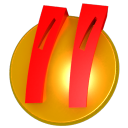
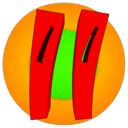
Pause Scene was changed

diff --git a/src/com/example/forestgame/PauseScene.java b/src/com/example/forestgame/PauseScene.java
@@ -12,14 +12,22 @@ import android.util.Log;
 
 public class PauseScene extends Scene {
     
-    private static final float PAUSE_POSITION_LEFT = MainActivity.TEXTURE_WIDTH * 35 / 120;
+    private static final float PAUSE_POSITION_LEFT = MainActivity.TEXTURE_WIDTH * 31 / 120;
     private static final float PAUSE_POSITION_UP = MainActivity.TEXTURE_HEIGHT * 13 / 64;
+    private static final float PAUSE_WIDTH = MainActivity.TEXTURE_WIDTH * 190 / 400;
+    private static final float PAUSE_HEIGHT = MainActivity.TEXTURE_HEIGHT * 11 / 128;
     private static final float RESUME_POSITION_LEFT = MainActivity.TEXTURE_WIDTH * 319 / 1024;
     private static final float RESUME_POSITION_UP = MainActivity.TEXTURE_HEIGHT * 24 / 64;
-    private static final float NEWGAME_POSITION_LEFT = MainActivity.TEXTURE_WIDTH * 260 / 1024;
+    private static final float RESUME_WIDTH = MainActivity.TEXTURE_WIDTH * 150 / 400;;
+    private static final float RESUME_HEIGHT = MainActivity.TEXTURE_HEIGHT * 9 / 128;
+    private static final float NEWGAME_POSITION_LEFT = MainActivity.TEXTURE_WIDTH * 227 / 1024;
     private static final float NEWGAME_POSITION_UP = MainActivity.TEXTURE_HEIGHT * 31 / 64;
-    private static final float MAINMENU_POSITION_LEFT = MainActivity.TEXTURE_WIDTH * 235 / 1024;
-    private static final float MAINMENU_POSITION_UP = MainActivity.TEXTURE_HEIGHT * 38 / 64;    
+    private static final float NEWGAME_WIDTH = MainActivity.TEXTURE_WIDTH * 225 / 400;;
+    private static final float NEWGAME_HEIGHT = MainActivity.TEXTURE_HEIGHT * 9 / 128;
+    private static final float MAINMENU_POSITION_LEFT = MainActivity.TEXTURE_WIDTH * 222 / 1024;
+    private static final float MAINMENU_POSITION_UP = MainActivity.TEXTURE_HEIGHT * 38 / 64; 
+    private static final float MAINMENU_WIDTH = MainActivity.TEXTURE_WIDTH * 225 / 400;;
+    private static final float MAINMENU_HEIGHT = MainActivity.TEXTURE_HEIGHT * 9 / 128;
 
     private Sprite background = new Sprite( 0
             				   , 0
@@ -28,16 +36,18 @@ public class PauseScene extends Scene {
             				   , MainActivity.mainActivity.textureBackground
             				   , MainActivity.mainActivity.getVertexBufferObjectManager());
     
-    private Text pause = new Text( PAUSE_POSITION_LEFT
+    private Sprite pause = new Sprite( PAUSE_POSITION_LEFT
 				     , PAUSE_POSITION_UP
-				     , MainActivity.mainActivity.tPause
-				     , "PAUSE"
+				     , PAUSE_WIDTH
+				     , PAUSE_HEIGHT
+				     , MainActivity.mainActivity.texturePauseL
 				     , MainActivity.mainActivity.getVertexBufferObjectManager());
 
-    private Text resume = new Text( RESUME_POSITION_LEFT
+    private Sprite resume = new Sprite( RESUME_POSITION_LEFT
 				      , RESUME_POSITION_UP
-				      , MainActivity.mainActivity.tResume
-				      , "RESUME"
+				      , RESUME_WIDTH
+				      , RESUME_HEIGHT
+				      , MainActivity.mainActivity.textureResume
 				      , MainActivity.mainActivity.getVertexBufferObjectManager()) {
 	
 	@Override
@@ -47,24 +57,44 @@ public class PauseScene extends Scene {
 	    
 	    if (pSceneTouchEvent.isActionDown()) {
 	    
-		this.registerEntityModifier(MainActivity.TOUCH_SCALE_MODIFIER.deepCopy());
+		applyTouchEffects(resume);
 		
 	    } else if (pSceneTouchEvent.isActionUp()) {
+		
+		if (    (pTouchAreaLocalX > 0) 
+	                 && (pTouchAreaLocalX < RESUME_WIDTH)
+	                 && (pTouchAreaLocalY > 0)
+	                 && (pTouchAreaLocalY < RESUME_HEIGHT)) {
 
-		this.registerEntityModifier(MainActivity.UNTOUCH_SCALE_MODIFIER.deepCopy());
+		    applyUntouchEffects(resume);
 		MainActivity.mainActivity.mClick.play();
 		MainActivity.mainActivity.saveProgress();
-		MainScene.showGameScene();	
+		MainScene.showGameScene();
 		
-	    }
+		} else {
+			applyUntouchEffects(resume);
+		    }
+		    
+		} else if (pSceneTouchEvent.isActionMove()) {
+		    if (    !((pTouchAreaLocalX > 0) 
+		                 && (pTouchAreaLocalX < RESUME_WIDTH)
+		                 && (pTouchAreaLocalY > 0)
+		                 && (pTouchAreaLocalY < RESUME_HEIGHT))) {
+			applyUntouchEffects(resume);
+		    } else {
+			applyTouchEffects(resume);
+		    }
+		    
+		}
 	return true;
 	}
     };
 
-    private Text newgame = new Text(NEWGAME_POSITION_LEFT
+    private Sprite newgame = new Sprite(NEWGAME_POSITION_LEFT
 	    			    , NEWGAME_POSITION_UP
-	    			    , MainActivity.mainActivity.tNewGame
-	    			    , "NEW GAME"
+	    			    , NEWGAME_WIDTH
+	    			    , NEWGAME_HEIGHT
+	    			    , MainActivity.mainActivity.textureNewGame
 	    			    , MainActivity.mainActivity.getVertexBufferObjectManager()) {
 	
 	@Override
@@ -74,11 +104,16 @@ public class PauseScene extends Scene {
 	    
 	    if (pSceneTouchEvent.isActionDown()) {
 		
-		this.registerEntityModifier(MainActivity.TOUCH_SCALE_MODIFIER.deepCopy());
+		applyTouchEffects(newgame);
 		
 	    } else if (pSceneTouchEvent.isActionUp()) {
 		
-		this.registerEntityModifier(MainActivity.UNTOUCH_SCALE_MODIFIER.deepCopy());
+		if (    (pTouchAreaLocalX > 0) 
+	                 && (pTouchAreaLocalX < NEWGAME_WIDTH)
+	                 && (pTouchAreaLocalY > 0)
+	                 && (pTouchAreaLocalY < NEWGAME_HEIGHT)) {
+		
+		    applyUntouchEffects(newgame);
 		if (MainScene.getGameScene().getSlotMatrix().getScore() != 0)
 		MainScene.getGameScene().getScoresTable().saveResult(MainScene.getGameScene().getSlotMatrix().getScore());
 		MainActivity.mainActivity.mClick.play();
@@ -89,15 +124,30 @@ public class PauseScene extends Scene {
 		MainActivity.mainActivity.mClick.play();
 		MainActivity.mainActivity.progressNotSaved();
 		MainScene.showGameScene();
+		
+		} else {
+			applyUntouchEffects(newgame);
+		    }
+		    
+		} else if (pSceneTouchEvent.isActionMove()) {
+		    if (    !((pTouchAreaLocalX > 0) 
+		                 && (pTouchAreaLocalX < NEWGAME_WIDTH)
+		                 && (pTouchAreaLocalY > 0)
+		                 && (pTouchAreaLocalY < NEWGAME_HEIGHT))) {
+			applyUntouchEffects(newgame);
+		    } else {
+			applyTouchEffects(newgame);
+		    }
 	    }
 	    return true;
 	}
     };
     
-    private Text mainMenu = new Text(	MAINMENU_POSITION_LEFT
+    private Sprite mainMenu = new Sprite(	MAINMENU_POSITION_LEFT
 	    			      , MAINMENU_POSITION_UP
-	    			      , MainActivity.mainActivity.tMainMenu
-	    			      , "MAIN MENU"
+	    			      , MAINMENU_WIDTH
+	    			      , MAINMENU_HEIGHT
+	    			      , MainActivity.mainActivity.textureMainMenu
 	    			      , MainActivity.mainActivity.getVertexBufferObjectManager()) {
 
 	@Override
@@ -107,15 +157,33 @@ public class PauseScene extends Scene {
 
 	    if (pSceneTouchEvent.isActionDown()) {
 
-		this.registerEntityModifier(MainActivity.TOUCH_SCALE_MODIFIER.deepCopy());
+		applyTouchEffects(mainMenu);
 
 	    } else if (pSceneTouchEvent.isActionUp()) {
+		
+		if (    (pTouchAreaLocalX > 0) 
+	                 && (pTouchAreaLocalX < MAINMENU_WIDTH)
+	                 && (pTouchAreaLocalY > 0)
+	                 && (pTouchAreaLocalY < MAINMENU_HEIGHT)) {
 
-		this.registerEntityModifier(MainActivity.UNTOUCH_SCALE_MODIFIER.deepCopy());
+		applyUntouchEffects(mainMenu);
 		MainActivity.mainActivity.mClick.play();
 		MainActivity.mainActivity.saveProgress();
 		MainScene.showMainMenuScene();
-	    }
+		} else {
+			applyUntouchEffects(mainMenu);
+		    }
+		    
+		} else if (pSceneTouchEvent.isActionMove()) {
+		    if (    !((pTouchAreaLocalX > 0) 
+		                 && (pTouchAreaLocalX < MAINMENU_WIDTH)
+		                 && (pTouchAreaLocalY > 0)
+		                 && (pTouchAreaLocalY < MAINMENU_HEIGHT))) {
+			applyUntouchEffects(mainMenu);
+		    } else {
+			applyTouchEffects(mainMenu);
+		    }
+		}
 	    return true;
 	}
     };
@@ -136,8 +204,7 @@ public class PauseScene extends Scene {
 	    if (pSceneTouchEvent.isActionDown()) {
 
 		Log.d("MuteOff", "touch");
-		this.registerEntityModifier(MainActivity.TOUCH_SCALE_MODIFIER.deepCopy());
-		this.registerEntityModifier(MainActivity.TOUCH_ALPHA_MODIFIER.deepCopy());
+		applyTouchEffects(muteOff);
 
 	    } else if (pSceneTouchEvent.isActionUp()) {
 
@@ -147,14 +214,12 @@ public class PauseScene extends Scene {
 			&& (pTouchAreaLocalY < MainMenuScene.MUTE_HEIGHT)) {
 
 		    Log.d("MuteOff", "no touch");
-		    this.registerEntityModifier(MainActivity.UNTOUCH_SCALE_MODIFIER.deepCopy());
-		    this.registerEntityModifier(MainActivity.UNTOUCH_ALPHA_MODIFIER.deepCopy());
+		    applyUntouchEffects(muteOff);
 		    muteIconCLick();
 
 		} else {
 		    Log.d("MuteOff", "no touch outside");
-		    this.registerEntityModifier(MainActivity.UNTOUCH_SCALE_MODIFIER.deepCopy());
-		    this.registerEntityModifier(MainActivity.UNTOUCH_ALPHA_MODIFIER.deepCopy());
+		    applyUntouchEffects(muteOff);
 		}
 
 	    } else if (pSceneTouchEvent.isActionMove()) {
@@ -162,11 +227,9 @@ public class PauseScene extends Scene {
 			&& (pTouchAreaLocalX < MainMenuScene.MUTE_WIDTH)
 			&& (pTouchAreaLocalY > 0)
 			&& (pTouchAreaLocalY < MainMenuScene.MUTE_HEIGHT))) {
-		    this.registerEntityModifier(MainActivity.UNTOUCH_SCALE_MODIFIER.deepCopy());
-		    this.registerEntityModifier(MainActivity.UNTOUCH_ALPHA_MODIFIER.deepCopy());
+		    applyUntouchEffects(muteOff);
 		} else {
-		    this.registerEntityModifier(MainActivity.TOUCH_SCALE_MODIFIER.deepCopy());
-		    this.registerEntityModifier(MainActivity.TOUCH_ALPHA_MODIFIER.deepCopy());
+		    applyTouchEffects(muteOff);
 		}
 	    }
 	    return true;
@@ -211,6 +274,8 @@ public class PauseScene extends Scene {
 	registerTouchArea(resume);
 	registerTouchArea(mainMenu);
 	registerTouchArea(muteOff);
+	setTouchAreaBindingOnActionDownEnabled(true);
+	setTouchAreaBindingOnActionMoveEnabled(true);
 	
     }
     
@@ -231,5 +296,15 @@ public class PauseScene extends Scene {
    	setVisible(false);
    	setIgnoreUpdate(true);
    	background.setAlpha(0.8f);
+    }
+    
+    private void applyTouchEffects(Sprite button) {
+	button.registerEntityModifier(MainActivity.TOUCH_SCALE_MODIFIER.deepCopy());
+	button.registerEntityModifier(MainActivity.TOUCH_ALPHA_MODIFIER.deepCopy());
+    }
+    
+    private void applyUntouchEffects(Sprite button) {
+	button.registerEntityModifier(MainActivity.UNTOUCH_SCALE_MODIFIER.deepCopy());
+	button.registerEntityModifier(MainActivity.UNTOUCH_ALPHA_MODIFIER.deepCopy());
     }
 }

diff --git a/src/com/example/forestgame/MainActivity.java b/src/com/example/forestgame/MainActivity.java
@@ -79,6 +79,10 @@ public class MainActivity extends SimpleBaseGameActivity {
     public TextureRegion textureTitle;
     public TextureRegion texturePlay;
     public TextureRegion textureResume;
+    public TextureRegion texturePauseL;
+    public TextureRegion textureGameOverL;
+    public TextureRegion textureNewGame;
+    public TextureRegion textureMainMenu;
     public TextureRegion textureScores;
     public TextureRegion textureCredits;
     public TextureRegion textureExit;
@@ -272,7 +276,11 @@ public class MainActivity extends SimpleBaseGameActivity {
         			   , "arrow_left.png"
         			   , "arrow_right.png"
         			   , "arrow_up.png"
-        			   , "arrow_down.png");
+        			   , "arrow_down.png"
+        			   , "game_over_label.png"
+        			   , "pause_label.png"
+        			   , "pause_new_game.png"
+        			   , "pause_main_menu.png");
 		   
 
         	textureTitle = storage.getTexture("main_menu_title.png");
@@ -288,6 +296,10 @@ public class MainActivity extends SimpleBaseGameActivity {
         	textureArrowRight = storage.getTexture("arrow_right.png");
         	textureArrowUp = storage.getTexture("arrow_up.png");
         	textureArrowDown = storage.getTexture("arrow_down.png");
+        	texturePauseL = storage.getTexture("pause_label.png");
+        	textureGameOverL = storage.getTexture("game_over_label.png");
+        	textureMainMenu = storage.getTexture("pause_main_menu.png");
+        	textureNewGame = storage.getTexture("pause_new_game.png");
         	
         	/*storage.createAtlas( MainActivity.mainActivity.getTextureManager()
         	           	   , MainActivity.mainActivity

diff --git a/src/com/example/forestgame/MainMenuScene.java b/src/com/example/forestgame/MainMenuScene.java
@@ -54,7 +54,7 @@ public class MainMenuScene extends Scene {
     public static final float MUTEON_HEIGHT = MainActivity.TEXTURE_HEIGHT * 123 / 2000;
     
     public static final float HELP_POSITION_LEFT = MainActivity.TEXTURE_WIDTH* 40 / 625;
-    public static final float HELP_POSITION_UP = MainActivity.TEXTURE_HEIGHT * 1798 / 2000;
+    public static final float HELP_POSITION_UP = MainActivity.TEXTURE_HEIGHT * 1797 / 2000;
     public static final float HELP_WIDTH = MainActivity.TEXTURE_WIDTH * 30 / 250;
     public static final float HELP_HEIGHT = MainActivity.TEXTURE_HEIGHT * 160 / 2000;
 
